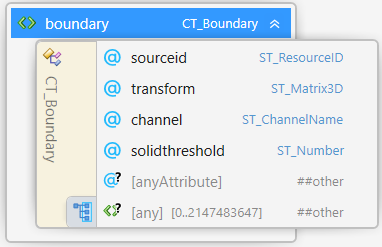
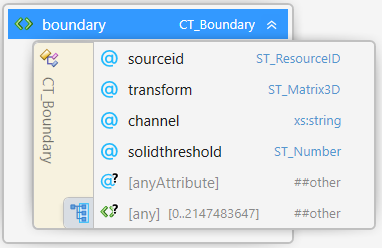
Finishing touches
- clarify volumedata elements
- make tilestyles optional
- fix typo
- clarify OPC
- update example
- update all images
- make transform optional
- fix channel-name to be xs:string if used outside of channelfromimage3d

diff --git a/3MF Volumetric Extension.md b/3MF Volumetric Extension.md
@@ -55,7 +55,7 @@ This extension MUST be used only with Core specification version 1.3. or higher.
 
 ## 1.2. Introduction
 Volumetric Modeling is an efficient approach to encode geometrical shapes and spatial properties and is based on a volumetric description.
-Traditional, explicit modeling methodologies are based on surfaces (e.g. NURBS, triangular meshes) that describe the boundaries of an object. This is illustrated in Figure 1-1 a): a NURBS surface delimitates a region of space. Figure 1-1 b) shows a triangular mesh that describes the same surface. In each case, the top part of the described object is being shown transparently to allow viewing the "inside" of the described object.
+Traditional, explicit modeling methodologies are based on surfaces (e.g. NURBS, triangular meshes) that describe the boundaries of an object. This is illustrated in Figure 1-1 	: a NURBS surface delimitates a region of space. Figure 1-1 b) shows a triangular mesh that describes the same surface. In each case, the top part of the described object is being shown transparently to allow viewing the "inside" of the described object.
 
 The volumetric modeling approach relies on a mathematical, field-based description of the whole volume of the object. This is illustrated in Figure 1-1 c). Every point in space has a scalar (gray-scale) value. The iso-surface at value 0 describes the surface of the same object as in Figure 1-1 a). A section of this iso-surface is indicated by the blue line.
 
@@ -155,11 +155,13 @@ To achieve high accuracy, producers SHOULD store such information in image chann
 
 
 ## 2.1.2 OPC package layout
+__Note__: Introductory information about the Open Packaging Conventions (OPC) can be found in the 3MF Core Specification (see https://github.com/3MFConsortium/spec_core/blob/1.3.0/3MF%20Core%20Specification.md#11-package).
+
 It is RECOMMENDED that producers of 3MF Documents use the following part naming convention:
 
 Paths of  \<image3dsheet> SHOULD consist of four segments. "/3D/volumetric/" as the first two segments, the name of a image3d-element that references this  \<image3dsheet> as third segment (for example "/3D/volumetric/mixingratios/", and the name of the image3dsheet as last segment (for example "sheet0001.png"). The 3D Texture part that is the  \<image3dsheet> MUST be associated with the 3D Model part via the 3D Texture relationship.
 
-This implies that all  \<image3dsheet> parts for an image3d-object SHOULD be located in the same OPC folder.
+This implies that all \<image3dsheet> parts for an image3d-object SHOULD be located in the same OPC folder.
 
 _Figure 2-3: OPC package layout_
 ![OPC package layout](images/OPC_overview.png)
@@ -197,13 +199,13 @@ Element type
 | id | ST\_ResourceID | required | | The resource id of this ChannelFromImage3D resource |
 | image3did | ST\_ResourceID | required | | Specifies the id of the 3d image resource |
 | channel | ST\_ChannelName | required | | Specifies which channel to reference in the 3d image resource |
-| transform | ST\_Matrix3D | required | | Transformation of the channel coordinate system into the \<image3d> coordinate system |
+| transform | ST\_Matrix3D | | | Transformation of the channel coordinate system into the \<image3d> coordinate system |
 | valueoffset | ST\_Number |  | 0.0 | Specifies a numerical offset for the values obtained from the `channel` within the `image3d` referred to by this CT_ChannelFromImage3D |
 | valuescale | ST\_Number | | 1.0 | Specifies a numerical scaling for the values obtained from the `channel` within the `image3d` referred to by this CT_ChannelFromImage3D. |
 | filter |ST\_Filter | | linear | "linear" or "nearest" neighbor interpolation |
-| tilestyleu | ST\_TileStyle | Required | | Determines the behavior of the sampler for texture coordinate u outside the [0,1] range |
-| tilestylev | ST\_TileStyle | Required | | Determines the behavior of the sampler for texture coordinate v outside the [0,1] range |
-| tilestylew | ST\_TileStyle | Required | | Determines the behavior of the sampler for texture coordinate w outside the [0,1] range |
+| tilestyleu | ST\_TileStyle | | wrap | Determines the behavior of the sampler for texture coordinate u outside the [0,1] range |
+| tilestylev | ST\_TileStyle | | wrap | Determines the behavior of the sampler for texture coordinate v outside the [0,1] range |
+| tilestylew | ST\_TileStyle | | wrap | Determines the behavior of the sampler for texture coordinate w outside the [0,1] range |
 
 Elements of type \<CT_ChannelFromImage3D> define the way in which individual channels from volumetric image resources can be referenced inside the volumetric layer elements. Each channel reference MUST contain a resource id that maps to an actual \<image3d> element.
 
@@ -280,7 +282,7 @@ Element **\<dstchannel>**
 
 | Name   | Type   | Use | Default | Annotation |
 | --- | --- | --- | --- | --- |
-| name | ST\_ChannelName | required | | Specifies the name of this destination channel |
+| name | xs:string | required | | Specifies the name of this destination channel |
 | background | ST\_Number | required | | Specifies the background value of this channel |
 
 A destination channel specifies a name of a channel that can be sampled from a volumetricstack element.
@@ -355,7 +357,7 @@ Element **\<channelmapping>**
 | Name   | Type   | Use | Default | Annotation |
 | --- | --- | --- | --- | --- |
 | sourceid | ST\_ResourceID | required | | The resource id of a ChannelFromImage3D resource |
-| dstchannel | ST\_ChannelName | required | | Name of the destination channel that should be manipulated by this channelmapping within this volumetric layer |
+| dstchannel | xs:string | required | | Name of the destination channel that should be manipulated by this channelmapping within this volumetric layer |
 
 # Chapter 5. Volumetric Data
 
@@ -378,7 +380,7 @@ The \<volumedata> element references the volumetric data given by \<volumetricst
 Volumedata MUST only be used in a mesh of object type "model" or "solidsupport". This ensures that the \<mesh> defines a volume.
 Moreover, the volumedata-element MUST not be used in a mesh that is referenced as "originalmesh" by any other mesh.
 
-The volumedata element can contain up to one \<boundary> child element, up to one \<composite> child element,
+The \<volumedata> element can contain up to one \<boundary> child element, up to one \<composite> child element,
 up to one \<color> element, and an arbitrary number of \<property> elements.
 
 The child elements modify the enclosing \<mesh> in two fundamentally different ways:
@@ -399,11 +401,11 @@ Conflicting properties must be handled as follows:
 1. Producers MUST not define colors, materials or properties via child elements of the \<volumedata> element that are impossible on physical grounds (e.g. non-conducting copper).
 2. Consumers that read files with properties that cannot be realized due to limitations specific to them (e.g. a specific manufacturing device that does not support a material in a specific color), SHOULD raise a warning, but MAY handle this in any appropriate way for them. If there is an established process between Producer and Consumer, resolution of such conflicts SHOULD be performed e.g. via negotiation through printer capabilities and a print ticket.
 
-__Note__: In the case where objects with different volumedata elements, only the volumedata elements from last object can be used.
-This makes sure that volumedata elements of an overlapped object do not determine any volumedata elements of an overlapping object. Figure 5-1 illustrates this behavior.
+__Note__: In the case where objects with different \<volumedata> child elements overlap, only the \<volumedata> child elements from last object can be used.
+This makes sure that \<volumedata> child elements of an overlapped object do not determine any \<volumedata> child elements of an overlapping object. Figure 5-1 illustrates this behavior.
 
-_Figure 5-1: a) Mesh object A (circle) with volumedata element X. b) Mesh object B (rectangle) with volumedata element Y. The mesh objects are defined in the order A-B. c) shows the volume defined by the overlapped mesh objects. d) shows volumedata element X in object A, and volumedata element Y in object B. The table lays out how these volumedata elements are sampled at positions p1 to p4._
-![Illustration of overlapping meshes with volumedata elements](images/overlap_properties.png)
+_Figure 5-1: a) Mesh object A (circle) with \<volumedata> child element X. b) Mesh object B (rectangle) with \<volumedata> child element Y. The mesh objects are defined in the order A-B. c) shows the volume defined by the overlapped mesh objects. d) shows \<volumedata> child element X in object A, and \<volumedata> child element Y in object B. The table lays out how these \<volumedata> child elements are sampled at positions p1 to p4._
+![Illustration of overlapping meshes with \<volumedata> child elements](images/overlap_properties.png)
 
 
 ### 5.2.1 Boundary element
@@ -415,9 +417,9 @@ Element **\<boundary>**
 | Name   | Type   | Use | Default | Annotation |
 | --- | --- | --- | --- | --- |
 | sourceid | ST\_ResourceID | required | | ResourceID of the volumetricstack that holds a channel that encodes the boundary as a levelset |
-| channel | ST\_ChannelName | required | | Name of the channel that holds a levelset function which defines the boundary |
+| transform | ST\_Matrix3D | | | Transformation of the object coordinate system into the volumetricstack coordinate system |
+| channel | xs:string | required | | Name of the channel that holds a levelset function which defines the boundary |
 | solidthreshold | ST\_Number | | 0.0 | Determines the values of the levelset function which are considered inside or outside the specified object  |
-| transform | ST\_Matrix3D | required | | Transformation of the object coordinate system into the volumetricstack coordinate system |
 
 The boundary element is used to describe the interior and exterior of an object via a levelset function.
 
@@ -447,7 +449,7 @@ Element **\<color>**
 | Name   | Type   | Use | Default | Annotation |
 | --- | --- | --- | --- | --- |
 | sourceid | ST\_ResourceID | required | | ResourceID of the volumetricstack that holds the channels to be used in the child color elements. |
-| transform | ST\_Matrix3D | required | | Transformation of the object coordinate system into the volumetricstack coordinate system |
+| transform | ST\_Matrix3D | | | Transformation of the object coordinate system into the volumetricstack coordinate system |
 
 The \<color> element is used to define the color of the object.
 The color MUST be interpreted in linearized sRGB color space as defined in the Materials and Properties specification https://github.com/3MFConsortium/spec_materials/blob/1.2.1/3MF%20Materials%20Extension.md#12-srgb-and-linear-color-values. If the value of the channel of a \<red>-, \<green>- and \<blue>-element is \<0 or \>1 it has to be truncated at 0 or 1, respectively.
@@ -475,7 +477,7 @@ Complex type **\<colorchannel>**
 
 | Name   | Type   | Use | Default | Annotation |
 | --- | --- | --- | --- | --- |
-| channel | ST\_ChannelName | required | | Source channel for the values of this color channel |
+| channel | xs:string | required | | Source channel for the values of this color channel |
 
 Each element instance of CT\_ColorChannel MUST have an attribute "channel" that
 references a destination channel from the \<volumetricstack> with Id matching the sourceid of the parent \<color> element.
@@ -492,7 +494,7 @@ Element **\<composite>**
 | Name   | Type | Use | Default | Annotation |
 | --- | --- | --- | --- | --- |
 | sourceid | ST\_ResourceID | required | | ResourceID of the volumetricstack that holds the channels used in the child \<materialmapping>-elements |
-| transform | ST\_Matrix3D | required | | Transformation of the object coordinate system into the volumetricstack coordinate system |
+| transform | ST\_Matrix3D | | | Transformation of the object coordinate system into the volumetricstack coordinate system |
 | basematerialid | ST\_ResourceID | required | | ResourceID of the basematerial that holds the \<base>-elements referenced in the child \<materialmapping>-elements |
 
 The \<composite> element describes a mixing ratio of printer materials at each position in space. The CONSUMER can determine the halftoning, mixing or dithering strategy that can be used to achieve these mixtures.
@@ -512,7 +514,7 @@ Element **\<materialmapping>**
 
 | Name   | Type   | Use | Default | Annotation |
 | --- | --- | --- | --- | --- |
-| channel | ST\_ChannelName | required | | Source channel for the values of this material |
+| channel | xs:string | required | | Source channel for the values of this material |
 | pindex | ST\_ResourceIndex | required | | ResourceIndex of the \<base>-element within the parent's associated \<basematerial>-element |
 
 The \<materialmapping> element defines the relative contribution of a specific material to the mixing of materials in it's parent
@@ -538,8 +540,8 @@ Element **\<property>**
 | Name   | Type   | Use | Default | Annotation |
 | --- | --- | --- | --- | --- |
 | sourceid | ST\_ResourceID | required | | ResourceID of the volumetricstack that holds the channel used by this property |
-| transform | ST\_Matrix3D | required | | Transformation of the object coordinate system into the volumetricstack coordinate system |
-| channel | ST\_ChannelName | required | | Name of the channel that serves as source for the scalar value representing this property. |
+| transform | ST\_Matrix3D | | | Transformation of the object coordinate system into the volumetricstack coordinate system |
+| channel | xs:string | required | | Name of the channel that serves as source for the scalar value representing this property. |
 | name | xs:QName | required | | Namespace and name of this property |
 | required | xs:boolean | | false | Indicator whether this property is required to process this 3MF document instance. |
 
@@ -568,9 +570,9 @@ __Note__:
 
 Equipped with the language elements of this specification, one can recapitulate the core concepts with an overview of the sampling process.
 
-Figure 5-2 illustrates the 3MF elements, the different coordinate systems and transforms between them when a volume data element (in this case \<color>) is sampled in the object coordinate space.
+Figure 5-2 illustrates the 3MF elements, the different coordinate systems and transforms between them when a \<volumedata> element (in this case \<color>) is sampled in the object coordinate space.
 
-Figure 5-2a) The object is sampled at position (+) in the object coordinate system. The clipping surface is hinted at with a wireframe. The transformation `T0` of the world coordinate system into the object coordinate system is given by the `transform`-attributes on the `item` and `component`-elements in the path that leads to this object in the `build`-hierarchy of the 3MF Core Specification (see https://github.com/3MFConsortium/spec_core/blob/1.3.0/3MF%20Core%20Specification.md#3431-item-element and https://github.com/3MFConsortium/spec_core/blob/1.3.0/3MF%20Core%20Specification.md#421-component).
+Figure 5-2 a) The object is sampled at position (+) in the object coordinate system. The clipping surface is hinted at with a wireframe. The transformation `T0` of the world coordinate system into the object coordinate system is given by the `transform`-attributes on the `item` and `component`-elements in the path that leads to this object in the `build`-hierarchy of the 3MF Core Specification (see https://github.com/3MFConsortium/spec_core/blob/1.3.0/3MF%20Core%20Specification.md#3431-item-element and https://github.com/3MFConsortium/spec_core/blob/1.3.0/3MF%20Core%20Specification.md#421-component).
 
 Figure 5-2b) Offers a view into the \<volumetricstack> and its corresponding coordinate system. The transformation `T1` from object coordinate space to \<volumetricstack> coordinate system is given by the `transform`-element in the \<color>-element. The original clipping surface from a) is only shown for illustration porpuses. It does not exist in the \<volumetricstack> context.
 The value sampled from the \<volumetricstack> element might be the result of blending multiple \<volumetriclayer>s in this stack, see Figure 4-1.
@@ -627,10 +629,10 @@ xmlns:xml="http://www.w3.org/XML/1998/namespace" targetNamespace="http://schemas
 	<xs:complexType name="CT_Image3D">
 		<xs:sequence>
 			<xs:any namespace="##other" processContents="lax" minOccurs="0" maxOccurs="2147483647"/>
-			<xs:element ref="image3dsheet" minOccurs="0" maxOccurs="2147483647"/>
+			<xs:element ref="image3dsheet" minOccurs="0" maxOccurs="1073741824"/>
 		</xs:sequence>
 		<xs:attribute name="id" type="ST_ResourceID" use="required"/>
-		<xs:attribute name="name" type="xs:string" use="required"/>
+		<xs:attribute name="name" type="xs:string"/>
 		<xs:attribute name="rowcount" type="xs:positiveInteger" use="required"/>
 		<xs:attribute name="columncount" type="xs:positiveInteger" use="required"/>
 		<xs:attribute name="sheetcount" type="xs:positiveInteger" use="required"/>
@@ -642,8 +644,8 @@ xmlns:xml="http://www.w3.org/XML/1998/namespace" targetNamespace="http://schemas
 			<xs:any namespace="##other" processContents="lax" minOccurs="0" maxOccurs="2147483647"/>
 		</xs:sequence>
 		<xs:attribute name="path" type="ST_UriReference" use="required"/>
-    <xs:attribute name="valueoffset" type="ST_Number" use="optional" default="0.0"/>
-    <xs:attribute name="valuescale" type="ST_Number" use="optional" default="1.0"/>
+		<xs:attribute name="valueoffset" type="ST_Number" default="0.0"/>
+		<xs:attribute name="valuescale" type="ST_Number" default="1.0"/>
 		<xs:anyAttribute namespace="##other" processContents="lax"/>
 	</xs:complexType>
 
@@ -661,8 +663,8 @@ xmlns:xml="http://www.w3.org/XML/1998/namespace" targetNamespace="http://schemas
 		<xs:sequence>
 			<xs:any namespace="##other" processContents="lax" minOccurs="0" maxOccurs="2147483647"/>
 		</xs:sequence>
-		<xs:attribute name="name" type="ST_ChannelName" use="required"/>
-		<xs:attribute name="background" type="ST_Number" use="optional" default="0"/>
+		<xs:attribute name="name" type="xs:string" use="required"/>
+		<xs:attribute name="background" type="ST_Number" default="0"/>
 		<xs:anyAttribute namespace="##other" processContents="lax"/>
 	</xs:complexType>
 	
@@ -672,9 +674,9 @@ xmlns:xml="http://www.w3.org/XML/1998/namespace" targetNamespace="http://schemas
 			<xs:element ref="channelmapping" minOccurs="1" maxOccurs="2147483647"/>
 		</xs:sequence>
 		<xs:attribute name="blendmethod" type="ST_BlendMethod" use="required"/>
-		<xs:attribute name="srcalpha" type="ST_Number" use="optional"/>
-		<xs:attribute name="dstalpha" type="ST_Number" use="optional"/>
-		<xs:attribute name="maskid" type="ST_ResourceId" use="optional"/>
+		<xs:attribute name="srcalpha" type="ST_Number"/>
+		<xs:attribute name="dstalpha" type="ST_Number"/>
+		<xs:attribute name="maskid" type="ST_ResourceId"/>
 		<xs:anyAttribute namespace="##other" processContents="lax"/>
 	</xs:complexType>
 
@@ -685,13 +687,13 @@ xmlns:xml="http://www.w3.org/XML/1998/namespace" targetNamespace="http://schemas
 		<xs:attribute name="id" type="ST_ResourceID" use="required"/>
 		<xs:attribute name="image3did" type="ST_ResourceID" use="required"/>
 		<xs:attribute name="channel" type="ST_ChannelName" use="required"/>
-		<xs:attribute name="transform" type="ST_Matrix3D" use="required"/>
-		<xs:attribute name="filter" type="ST_Filter" use="optional" default="linear"/>
-		<xs:attribute name="valueoffset" type="ST_Number" use="optional" default="0.0"/>
-		<xs:attribute name="valuescale" type="ST_Number" use="optional" default="1.0"/>
-		<xs:attribute name="tilestyleu" type="ST_TileStyle" use="optional" default="wrap"/>
-		<xs:attribute name="tilestylev" type="ST_TileStyle" use="optional" default="wrap"/>
-		<xs:attribute name="tilestylew" type="ST_TileStyle" use="optional" default="wrap"/>
+		<xs:attribute name="transform" type="ST_Matrix3D"/>
+		<xs:attribute name="filter" type="ST_Filter" default="linear"/>
+		<xs:attribute name="valueoffset" type="ST_Number" default="0.0"/>
+		<xs:attribute name="valuescale" type="ST_Number" default="1.0"/>
+		<xs:attribute name="tilestyleu" type="ST_TileStyle" default="wrap"/>
+		<xs:attribute name="tilestylev" type="ST_TileStyle" default="wrap"/>
+		<xs:attribute name="tilestylew" type="ST_TileStyle" default="wrap"/>
 		<xs:anyAttribute namespace="##other" processContents="lax"/>
 	</xs:complexType>
 
@@ -700,7 +702,7 @@ xmlns:xml="http://www.w3.org/XML/1998/namespace" targetNamespace="http://schemas
 			<xs:any namespace="##other" processContents="lax" minOccurs="0" maxOccurs="2147483647"/>
 		</xs:sequence>
 		<xs:attribute name="sourceid" type="ST_ResourceID" use="required"/>
-		<xs:attribute name="dstchannel" type="ST_ChannelName" use="required"/>
+		<xs:attribute name="dstchannel" type="xs:string" use="required"/>
 		<xs:anyAttribute namespace="##other" processContents="lax"/>
 	</xs:complexType>
 
@@ -726,10 +728,10 @@ xmlns:xml="http://www.w3.org/XML/1998/namespace" targetNamespace="http://schemas
 		<xs:sequence>
 			<xs:any namespace="##other" processContents="lax" minOccurs="0" maxOccurs="2147483647"/>
 		</xs:sequence>
-		<xs:attribute name="sourceid" type="ST_ResourceID" use="required" />
-		<xs:attribute name="transform" type="ST_Matrix3D" use="required" />
-		<xs:attribute name="channel" type="ST_ChannelName" use="required" />
-		<xs:attribute name="solidthreshold" type="ST_Number" use="optional" default="0" />
+		<xs:attribute name="sourceid" type="ST_ResourceID" use="required"/>
+		<xs:attribute name="transform" type="ST_Matrix3D"/>
+		<xs:attribute name="channel" type="xs:string" use="required"/>
+		<xs:attribute name="solidthreshold" type="ST_Number" default="0"/>
 		<xs:anyAttribute namespace="##other" processContents="lax"/>
 	</xs:complexType>
 
@@ -740,8 +742,8 @@ xmlns:xml="http://www.w3.org/XML/1998/namespace" targetNamespace="http://schemas
 			<xs:element ref="blue"/>
 			<xs:any namespace="##other" processContents="lax" minOccurs="0" maxOccurs="2147483647"/>
 		</xs:sequence>
-		<xs:attribute name="sourceid" type="ST_ResourceID" use="required" />
-		<xs:attribute name="transform" type="ST_Matrix3D" use="required" />
+		<xs:attribute name="sourceid" type="ST_ResourceID" use="required"/>
+		<xs:attribute name="transform" type="ST_Matrix3D"/>
 		<xs:anyAttribute namespace="##other" processContents="lax"/>
 	</xs:complexType>
 
@@ -749,7 +751,7 @@ xmlns:xml="http://www.w3.org/XML/1998/namespace" targetNamespace="http://schemas
 		<xs:sequence>
 			<xs:any namespace="##other" processContents="lax" minOccurs="0" maxOccurs="2147483647"/>
 		</xs:sequence>
-		<xs:attribute name="channel" type="ST_ChannelName" use="required" />
+		<xs:attribute name="channel" type="xs:string" use="required"/>
 		<xs:anyAttribute namespace="##other" processContents="lax"/>
 	</xs:complexType>
 
@@ -758,9 +760,9 @@ xmlns:xml="http://www.w3.org/XML/1998/namespace" targetNamespace="http://schemas
 			<xs:element ref="materialmapping" minOccurs="1" maxOccurs="2147483647"/>
 			<xs:any namespace="##other" processContents="lax" minOccurs="0" maxOccurs="2147483647"/>
 		</xs:sequence>
-		<xs:attribute name="sourceid" type="ST_ResourceID" use="required" />
-		<xs:attribute name="transform" type="ST_Matrix3D" use="required" />
-		<xs:attribute name="basematerialid" type="ST_ResourceID" use="required" />
+		<xs:attribute name="sourceid" type="ST_ResourceID" use="required"/>
+		<xs:attribute name="transform" type="ST_Matrix3D"/>
+		<xs:attribute name="basematerialid" type="ST_ResourceID" use="required"/>
 		<xs:anyAttribute namespace="##other" processContents="lax"/>
 	</xs:complexType>
 
@@ -768,8 +770,8 @@ xmlns:xml="http://www.w3.org/XML/1998/namespace" targetNamespace="http://schemas
 		<xs:sequence>
 			<xs:any namespace="##other" processContents="lax" minOccurs="0" maxOccurs="2147483647"/>
 		</xs:sequence>
-		<xs:attribute name="channel" type="ST_ChannelName" use="required" />
-		<xs:attribute name="pindex" type="ST_ResourceIndex" use="required" />
+		<xs:attribute name="channel" type="xs:string" use="required"/>
+		<xs:attribute name="pindex" type="ST_ResourceIndex" use="required"/>
 		<xs:anyAttribute namespace="##other" processContents="lax"/>
 	</xs:complexType>
 
@@ -777,11 +779,11 @@ xmlns:xml="http://www.w3.org/XML/1998/namespace" targetNamespace="http://schemas
 		<xs:sequence>
 			<xs:any namespace="##other" processContents="lax" minOccurs="0" maxOccurs="2147483647"/>
 		</xs:sequence>
-		<xs:attribute name="sourceid" type="ST_ResourceID" use="required" />
-		<xs:attribute name="transform" type="ST_Matrix3D" use="required" />
-		<xs:attribute name="channel" type="ST_ChannelName" use="required" />
-		<xs:attribute name="name" type="xs:QName" use="required" />
-		<xs:attribute name="required" type="xs:boolean" use="required" />
+		<xs:attribute name="sourceid" type="ST_ResourceID" use="required"/>
+		<xs:attribute name="transform" type="ST_Matrix3D"/>
+		<xs:attribute name="channel" type="xs:string" use="required"/>
+		<xs:attribute name="name" type="xs:QName" use="required"/>
+		<xs:attribute name="required" type="xs:boolean" use="required"/>
 		<xs:anyAttribute namespace="##other" processContents="lax"/>
 	</xs:complexType>
 
@@ -849,7 +851,7 @@ xmlns:xml="http://www.w3.org/XML/1998/namespace" targetNamespace="http://schemas
 	<xs:element name="channel" type="CT_Channel"/>
 	<xs:element name="dstchannel" type="CT_Channel"/>
 	<xs:element name="volumetriclayer" type="CT_VolumetricLayer"/>
-  <xs:element name="channelmapping" type="CT_ChannelMapping"/>
+	<xs:element name="channelmapping" type="CT_ChannelMapping"/>
 	<xs:element name="channelfromimage3d" type="CT_ChannelFromImage3D"/>
 	<xs:element name="volumedata" type="CT_VolumeData"/>
 	<xs:element name="boundary" type="CT_Boundary"/>
@@ -870,24 +872,23 @@ Volumetric [http://schemas.microsoft.com/3dmanufacturing/volumetric/2018/11](htt
 
 # Appendix D: Example file
 
-3dmodel.model-file corresponding to the structure in Figure-3-3 b:
+3dmodel.model-file corresponding to the structure in Figure 3-3 b):
 ```xml
 <?xml version="1.0" encoding="utf-8"?>
 <model xmlns="http://schemas.microsoft.com/3dmanufacturing/core/2015/02" unit="millimeter" xml:lang="en-US" 
 xmlns:v="http://schemas.microsoft.com/3dmanufacturing/volumetric/2018/11" >
 	<resources>
 		<v:image3d id="1" rowcount="3" columncount="4" sheetcount="2">
-			<image3dsheet path="/3D/volumetric/colors/sheet 0.png" valuescale="0.00392156862"/>
-			<image3dsheet path="/3D/volumetric/colors/sheet 1.png" valuescale="0.00392156862"/>
+			<image3dsheet path="/3D/volumetric/colors/sheet0.png" valuescale="0.00392156862"/>
+			<image3dsheet path="/3D/volumetric/colors/sheet1.png" valuescale="0.00392156862"/>
 		</v:image3d>
-		<v:channelfromimage3d id="2" image3did="1" channelname="R" tilestyleu="wrap" tilestylev="wrap" tilestylew="wrap"/>
-		<v:channelfromimage3d id="3" image3did="1" channelname="G" tilestyleu="wrap" tilestylev="wrap" tilestylew="wrap"/>
-		<v:channelfromimage3d id="4" image3did="1" channelname="B" tilestyleu="wrap" tilestylev="wrap" tilestylew="wrap"/>
+		<v:channelfromimage3d id="2" image3did="1" channelname="R"/>
+		<v:channelfromimage3d id="3" image3did="1" channelname="G"/>
+		<v:channelfromimage3d id="4" image3did="1" channelname="B"/>
 		<v:volumetricstack id="5" >
 			<dstchannel name="red" background="0"/>
 			<dstchannel name="green" background="0"/>
 			<dstchannel name="blue" background="0"/>
-			
 			<volumetriclayer blendmethod="max">
 				<channelmapping sourceid="2" dstchannel="red"/>
 				<channelmapping sourceid="3" dstchannel="green"/>
@@ -898,28 +899,28 @@ xmlns:v="http://schemas.microsoft.com/3dmanufacturing/volumetric/2018/11" >
 		<object id="6" name="Body1" type="model">
 			<mesh>
 				<vertices>
-					<vertex x="200" y="100" z="75" />
-					<vertex x="-100" y="100" z="75" />
-					<vertex x="-100" y="16.66667" z="75" />
-					<vertex x="200" y="16.66667" z="75" />
-					<vertex x="-100" y="100" z="-100" />
-					<vertex x="200" y="100" z="-100" />
-					<vertex x="200" y="16.66667" z="-100" />
-					<vertex x="-100" y="16.66667" z="-100" />
+					<vertex x="200" y="100" z="75"/>
+					<vertex x="-100" y="100" z="75"/>
+					<vertex x="-100" y="16.66667" z="75"/>
+					<vertex x="200" y="16.66667" z="75"/>
+					<vertex x="-100" y="100" z="-100"/>
+					<vertex x="200" y="100" z="-100"/>
+					<vertex x="200" y="16.66667" z="-100"/>
+					<vertex x="-100" y="16.66667" z="-100"/>
 				</vertices>
 				<triangles>
-					<triangle v1="1" v2="2" v3="0" />
-					<triangle v1="0" v2="2" v3="3" />
-					<triangle v1="5" v2="6" v3="4" />
-					<triangle v1="4" v2="6" v3="7" />
-					<triangle v1="3" v2="6" v3="0" />
-					<triangle v1="0" v2="6" v3="5" />
-					<triangle v1="2" v2="7" v3="3" />
-					<triangle v1="3" v2="7" v3="6" />
-					<triangle v1="1" v2="4" v3="2" />
-					<triangle v1="2" v2="4" v3="7" />
-					<triangle v1="0" v2="5" v3="1" />
-					<triangle v1="1" v2="5" v3="4" />
+					<triangle v1="1" v2="2" v3="0"/>
+					<triangle v1="0" v2="2" v3="3"/>
+					<triangle v1="5" v2="6" v3="4"/>
+					<triangle v1="4" v2="6" v3="7"/>
+					<triangle v1="3" v2="6" v3="0"/>
+					<triangle v1="0" v2="6" v3="5"/>
+					<triangle v1="2" v2="7" v3="3"/>
+					<triangle v1="3" v2="7" v3="6"/>
+					<triangle v1="1" v2="4" v3="2"/>
+					<triangle v1="2" v2="4" v3="7"/>
+					<triangle v1="0" v2="5" v3="1"/>
+					<triangle v1="1" v2="5" v3="4"/>
 				</triangles>
 				<v:volumedata>
 					<color sourceid="3" transform="0.01 0 0 0 0.0133333333333 0 0 0 0.02 0 0 0">
